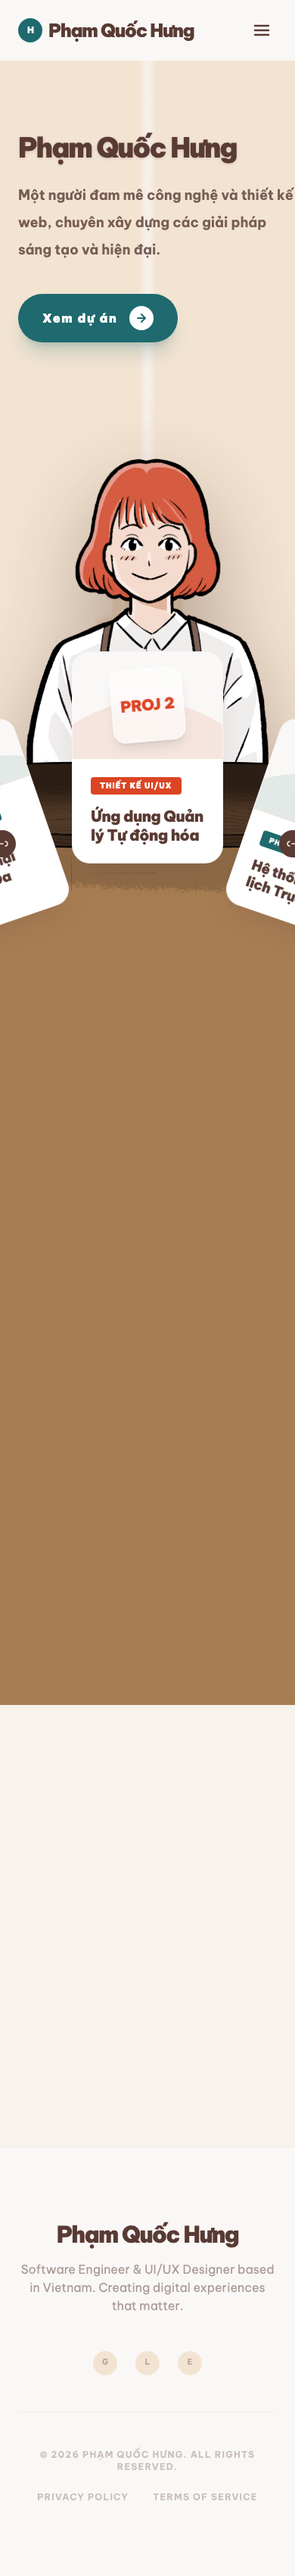
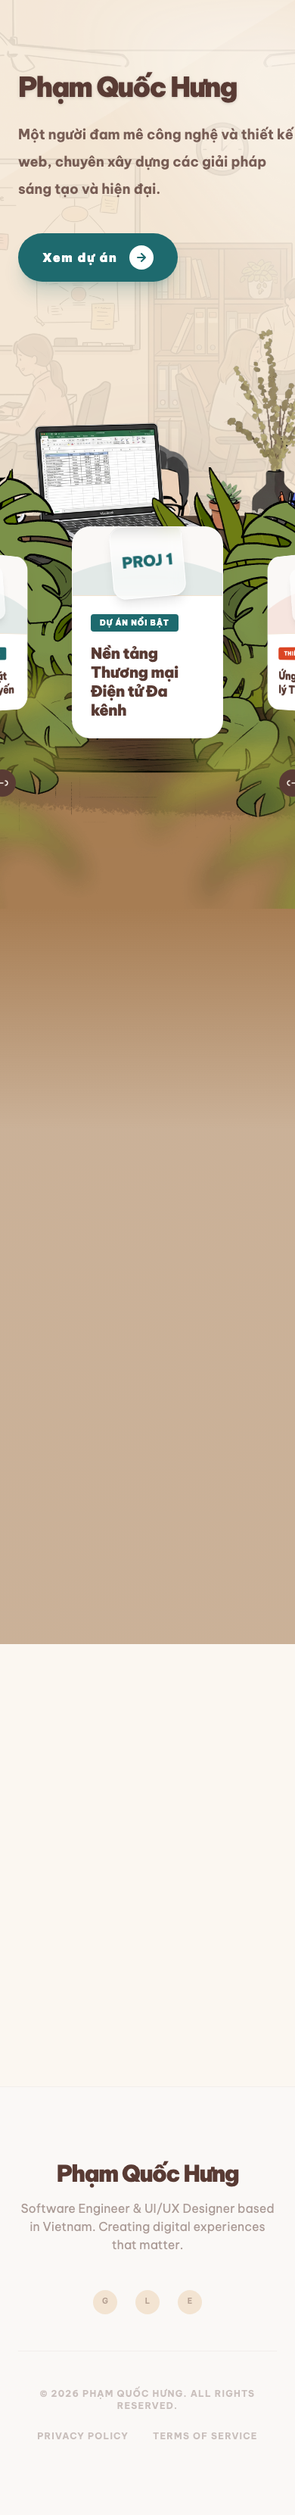
Refine UI hero, navbar, add pngs

diff --git a/src/styles/globals.css b/src/styles/globals.css
@@ -33,7 +33,12 @@
   }
   
   body {
-    @apply bg-brand-bg text-brand-text;
+    @apply text-brand-text;
+    -webkit-tap-highlight-color: transparent;
+    background-image: url('/images/bg_body.png');
+    background-attachment: fixed;
+    background-position: center;
+    background-size: cover;
   }
 
   h1, h2, h3, h4, h5, h6 {
@@ -67,4 +72,15 @@
 
 .hanging-shadow {
   box-shadow: 0 10px 30px -10px rgba(89, 59, 52, 0.1);
+}
+
+* {
+  -webkit-user-select: none;
+  user-select: none;
+}
+
+/* Cho phép select lại ở những chỗ cần thiết */
+p, h1, h2, h3, h4, h5, h6, span, a {
+  -webkit-user-select: text;
+  user-select: text;
 }
